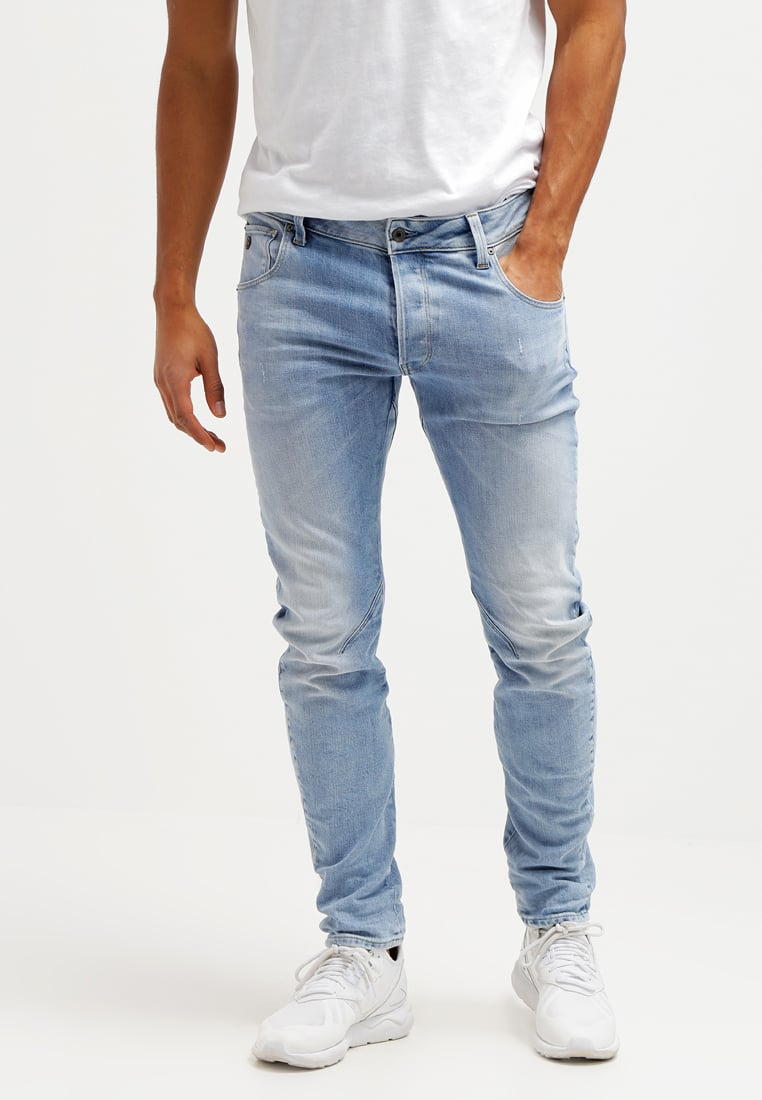
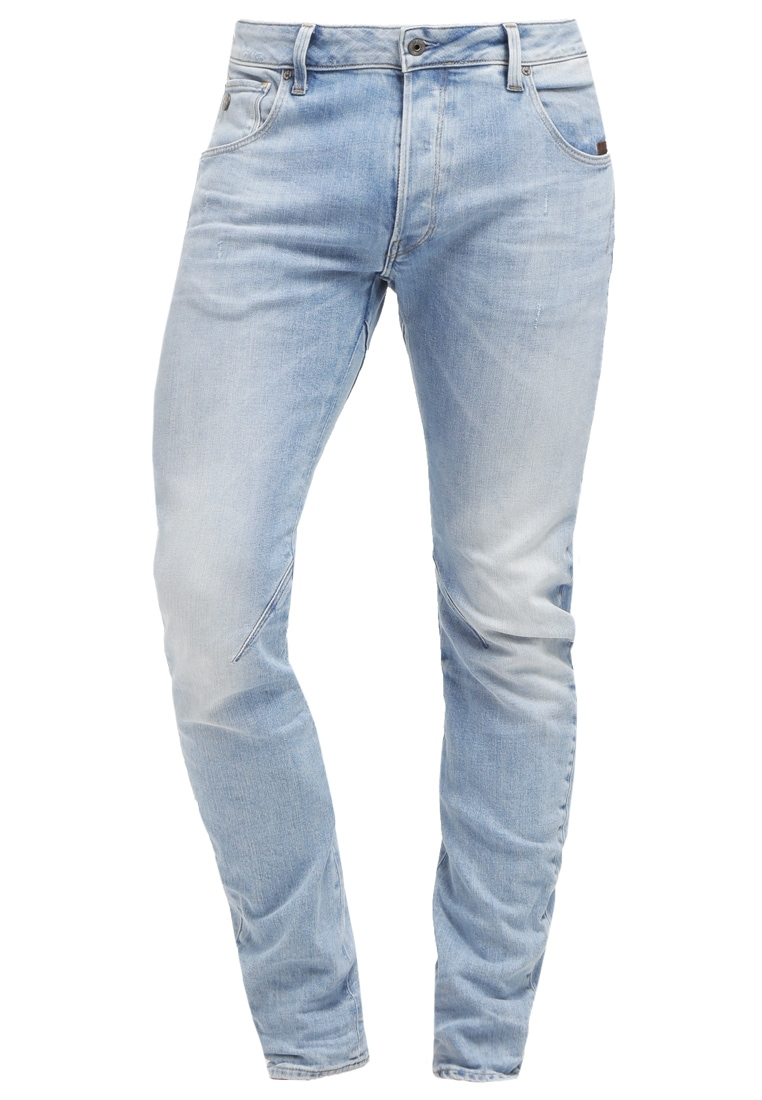
Ajout de nouvelles images
J'ai ajouté de nouvelles images pour les utiliser dans le site

diff --git a/fashe-colorlib/product-detail.php b/fashe-colorlib/product-detail.php
@@ -55,6 +55,14 @@
     echo "SESSION: "; print_r($_SESSION); echo "<br>";
     echo "GET: "; print_r($_GET); echo "<br>";*/
 
+    if(isset($_POST['basket']))
+    {
+        echo "";
+        //$query = "";
+        //$dbh->query($query) or die ("SQL Error in:<br> $query <br>Error message:".$dbh->errorInfo()[2]);
+        
+    }
+    
     $query = "SELECT id_article, quantity, illustration, illustration1, illustration2, brand, model_name, model_prix, size, color FROM article
                 INNER JOIN model on id_model = fk_model
                 INNER JOIN size on id_size = fk_size
@@ -152,7 +160,7 @@
 
                                     <div class='btn-addcart-product-detail size9 trans-0-4 m-t-10 m-b-10'>
                                         <!-- Button -->
-                                        <button class='flex-c-m sizefull bg1 bo-rad-23 hov1 s-text1 trans-0-4'>
+                                        <button class='flex-c-m sizefull bg1 bo-rad-23 hov1 s-text1 trans-0-4' name='basket'>
                                             Add to Cart
                                         </button>
                                     </div>
